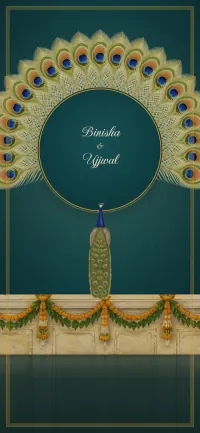
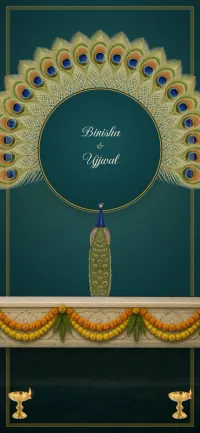
fix(kalapi): the gate's ground is painted to the foot of the screen: a garlanded marble ledge tile and a dark terrace floor with two lit diyas (no stretched fill)

Changed region(s): [[0.0, 0.6605, 1.0, 1.0], [0.51, 0.9908, 0.63, 1.0], [0.18, 0.9908, 0.21, 1.0]]

diff --git a/src/themes/kalapi/kalapi.css b/src/themes/kalapi/kalapi.css
@@ -93,13 +93,17 @@ body.theme-kalapi {
 .kp-bird__in { position: absolute; width: calc(var(--L) * 0.8 * 0.2442); height: calc(var(--L) * 0.8); left: calc(var(--L) * -0.0977); top: calc(var(--L) * -0.8); transform-origin: 50% 100%; }
 .kp-bird__in img { position: absolute; inset: 0; display: block; width: 100%; height: 100%; max-width: none; }
 /* the bird stands on the painted terrace parapet (garlands and diyas), which fades into the cloth above the buttons */
-.kp-g__ground { position: absolute; left: 0; right: 0; top: calc(var(--fy) - 10px); bottom: 0; pointer-events: none;
-  /* the parapet's marble face runs on to the foot of the screen and falls into evening shadow, so the buttons read on it
-     and nothing below the garlands is empty cloth */
-  background: linear-gradient(180deg, rgba(12, 40, 42, 0.62) 0, rgba(10, 36, 38, 0.86) 48px, rgba(8, 32, 34, 0.93) 100%) 0 116px / 100% calc(100% - 116px) no-repeat,
-    url('/themes/kalapi/art/plinth.webp') 50% 116px / max(100%, 1156px) calc(100% - 116px) no-repeat; }
-.kp-g__ground img { display: block; width: 100%; height: 118px; object-fit: cover; object-position: 50% 0; }
-.kp-g__ground::after { content: ''; position: absolute; left: 0; right: 0; top: 116px; height: 10px; background: linear-gradient(rgba(30, 22, 10, 0.4), transparent); }
+.kp-g__ground { --lh: 100px; position: absolute; left: 0; right: 0; top: calc(var(--fy) - 6px); bottom: 0; pointer-events: none; display: flex; flex-direction: column; }
+/* a painted marble ledge hung with marigold swags (a seamless tile, three swags wide) ... */
+.kp-g__ledge { flex: none; height: var(--lh); background: url('/themes/kalapi/art/ledge.webp') 50% 0 / auto 100% repeat-x; box-shadow: 0 6px 14px rgba(0, 0, 0, 0.35); position: relative; z-index: 1; }
+/* ... and the dark polished terrace floor below it with two brass diyas, painted to the foot of the screen */
+.kp-g__floor { position: relative; flex: 1; overflow: hidden; }
+.kp-g__floor > img { position: absolute; inset: 0; display: block; width: 100%; height: 100%; object-fit: cover; object-position: 50% 0; transform: scale(1.16); transform-origin: 50% 0; } /* the painting's own diyas sit at its far edges: crop them out, ours stand nearer */
+@media (min-width: 900px) { .kp-g__ground { --lh: 116px; } }
+/* two brass diyas with live flames stand on the floor either side of the buttons */
+.kp-g__diyo { position: absolute; bottom: 16%; width: 46px; }
+.kp-g__diyo--l { left: max(4%, calc(50% - 300px)); }
+.kp-g__diyo--r { right: max(4%, calc(50% - 300px)); }
 .kp-g__tap { position: absolute; left: 50%; top: calc(var(--ry) + var(--L) * 0.1); translate: -50% 0; margin: 0; display: flex; align-items: center; gap: 12px; white-space: nowrap;
   font: 600 11px/1 var(--su-f-body); letter-spacing: 0.3em; text-transform: uppercase; color: var(--kp-gold-hi); opacity: 0.8; pointer-events: none; }
 .kp-g__tap .l-ne { font-size: 14px; }

diff --git a/src/themes/kalapi/main.js b/src/themes/kalapi/main.js
@@ -336,7 +336,7 @@ const GATE = (ctx) => `
     <div class="kp-g__frame"></div>
     <span class="kp-g__glow"></span>
     <span class="kp-root kp-root--gate">${fan('kp-fan--gate', '(max-width: 760px) 90px, 110px')}</span>
-    <div class="kp-g__ground"><img src="${A}ground-sm.webp" srcset="${A}ground-sm.webp 1000w, ${A}ground.webp 1920w" sizes="100vw" alt="" decoding="async" /></div>
+    <div class="kp-g__ground"><span class="kp-g__ledge"></span><span class="kp-g__floor"><img src="${A}floor-sm.webp" srcset="${A}floor-sm.webp 1000w, ${A}floor.webp 1800w" sizes="100vw" alt="" decoding="async" />${lamp('diyo', { cls: 'kp-g__diyo kp-g__diyo--l', sizes: '60px' })}${lamp('diyo', { cls: 'kp-g__diyo kp-g__diyo--r', sizes: '60px' })}</span></div>
     <span class="kp-bird"><span class="kp-bird__in"><img src="${A}peacock.webp" alt="" decoding="async" /></span></span>
     <p class="kp-g__tap">${ctx.bi({ en: 'Tap the peacock', ne: 'मयूरलाई छुनुहोस्' })}</p>
     <div class="kp-gnames"><p class="su-names kp-names">${ctx.names('&amp;')}</p></div>

diff --git a/src/themes/kalapi/README.md b/src/themes/kalapi/README.md
@@ -45,6 +45,8 @@ cloth (lightbox); the reply on an ivory cloth cartouche over a lotus spray; the 
 - `feather`, `peacock` (seen from behind, train folded), `lotus`: cut-outs with transparency.
 - `ev-haldi|mehendi|janti|wedding|reception.webp`: one pichwai miniature per kind of ceremony (`kindOf()` in main.js; any
   other ceremony shows the palace in the rain).
-- `hero-portrait.webp` (phone first screen) and `ground(-sm).webp` (the parapet under the gate's peacock): crops of pano-1.
+- `hero-portrait.webp` (phone first screen): a crop of pano-1. `ledge.webp` (a seamless three-swag tile of a marble ledge with
+  marigold garlands) and `floor(-sm).webp` (the dark terrace floor with two brass diyas, its reflection settled into shadow):
+  one Canva painting, the ground the gate's peacock stands on, painted down to the foot of the screen.
 - Drawn in code: the brocade hems and seams (SVG masks), the cusped arch, the moon, the feather-eye scratch cover.
 - `public/themes/kalapi/thumb.jpg` (1200x900, the fan open), `gate.jpg`, `hero.jpg` (480x720).
